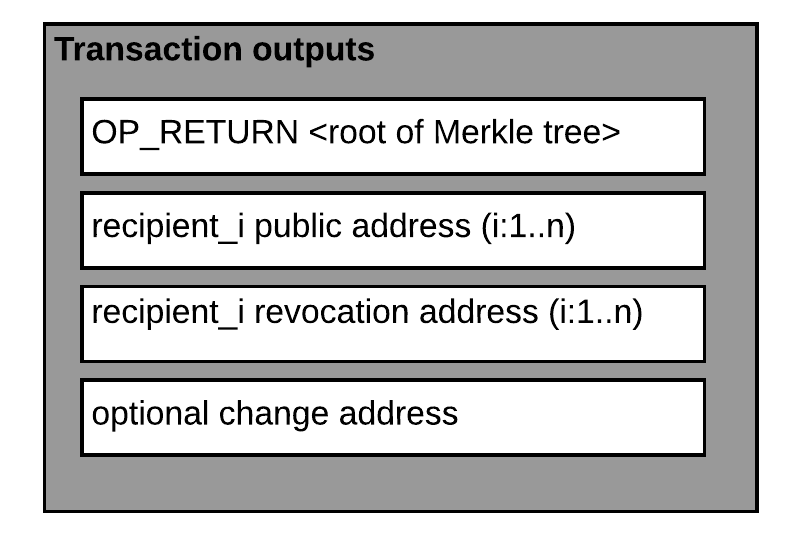
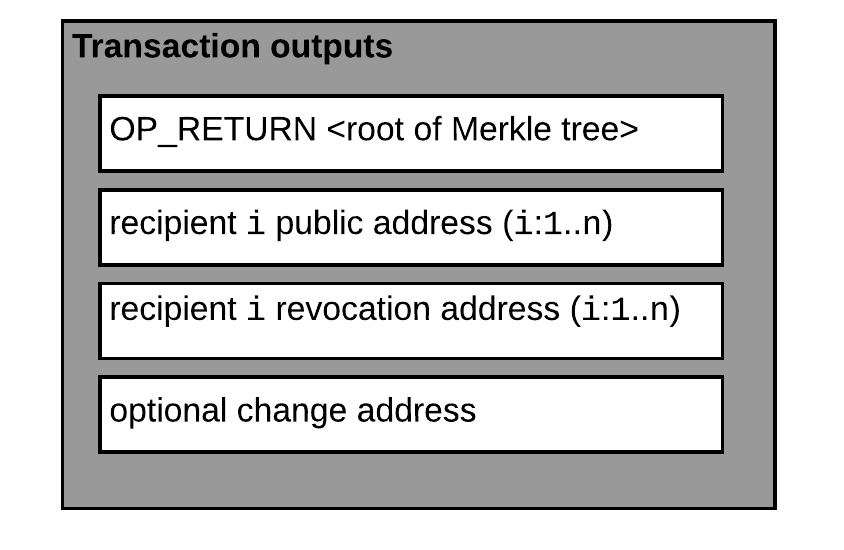
update pictures

Changed region(s): [[0.0302, 0.0309, 0.966, 0.9273]]

diff --git a/_layouts/default.html b/_layouts/default.html
@@ -15,6 +15,7 @@
     <meta property="article:tag" content="Blockchain Certificates" />
     <meta property="og:image" content="/assets/img/pictures/blockcerts.png" />
 
+    <link rel='shortcut icon' href='/assets/img/icons/favicon.ico' type='image/x-icon' />
     <link rel="stylesheet" href="/assets/css/main.css">
     <script src="/assets/js/main.js" defer></script>
 

diff --git a/guide/batch-issuing.md b/guide/batch-issuing.md
@@ -10,17 +10,17 @@ The issuer builds a Merkle tree of certificate hashes and registers the Merkle r
 
 ### How it works
 
-Suppose the batch contains `n` certificates, and certificate `i` contains recipient `i`'s information:
-
-![](/assets/img/pictures/cert_i.png)
-
-The issuer hashes each certificate and combines then into a Merkle tree as follows:
+Suppose the batch contains `n` certificates, and certificate `i` contains recipient `i`'s information. The issuer hashes each certificate and combines them into a Merkle tree:
 
 ![](/assets/img/pictures/merkle.png)
 
-The root of the Merkle tree is issued on the Bitcoin blockchain. The complete Bitcoin transaction outputs are described in 'Transaction structure'.
+The root of the Merkle tree, which is a 256-bit hash, is issued on the Bitcoin blockchain. The complete Bitcoin transaction outputs are described in 'Transaction structure'.
 
-The Blockchain Certificate given to recipient `i` contains a [Chainpoint V2-formatted Merkle receipt](https://github.com/chainpoint/whitepaper/raw/master/chainpoint_white_paper.pdf) proving that certificate `i` is contained in the Merkle tree. This receipt contains:
+The Blockchain Certificate given to recipient `i` contains a [Chainpoint V2-formatted Merkle receipt](https://github.com/chainpoint/whitepaper/raw/master/chainpoint_white_paper.pdf) proving that certificate `i` is contained in the Merkle tree. 
+
+<img src="/assets/img/pictures/blockchain_certificate_components.png" width="350">
+
+This receipt contains:
  * The Bitcoin transaction ID storing the Merkle root
  * The Merkle path from recipient `i`'s certificate to the Merkle root, i.e. the path highlighted in orange above. h_i -> … -> root
 
@@ -46,6 +46,6 @@ How a batch is defined can vary, but it should be defined such that it changes i
 
 Each recipient’s Bitcoin address and revocation address are included in the transaction outputs. This means that the Issuer needs to create and track the revocation private/public key per recipient. The verification process checks whether the recipient-specific revocation address in a certificate is spent. If so, then the certificate is invalid.
 
-![](/assets/img/pictures/tx_out.png)
+<img src="/assets/img/pictures/tx_out.png" width="350">
 
 
